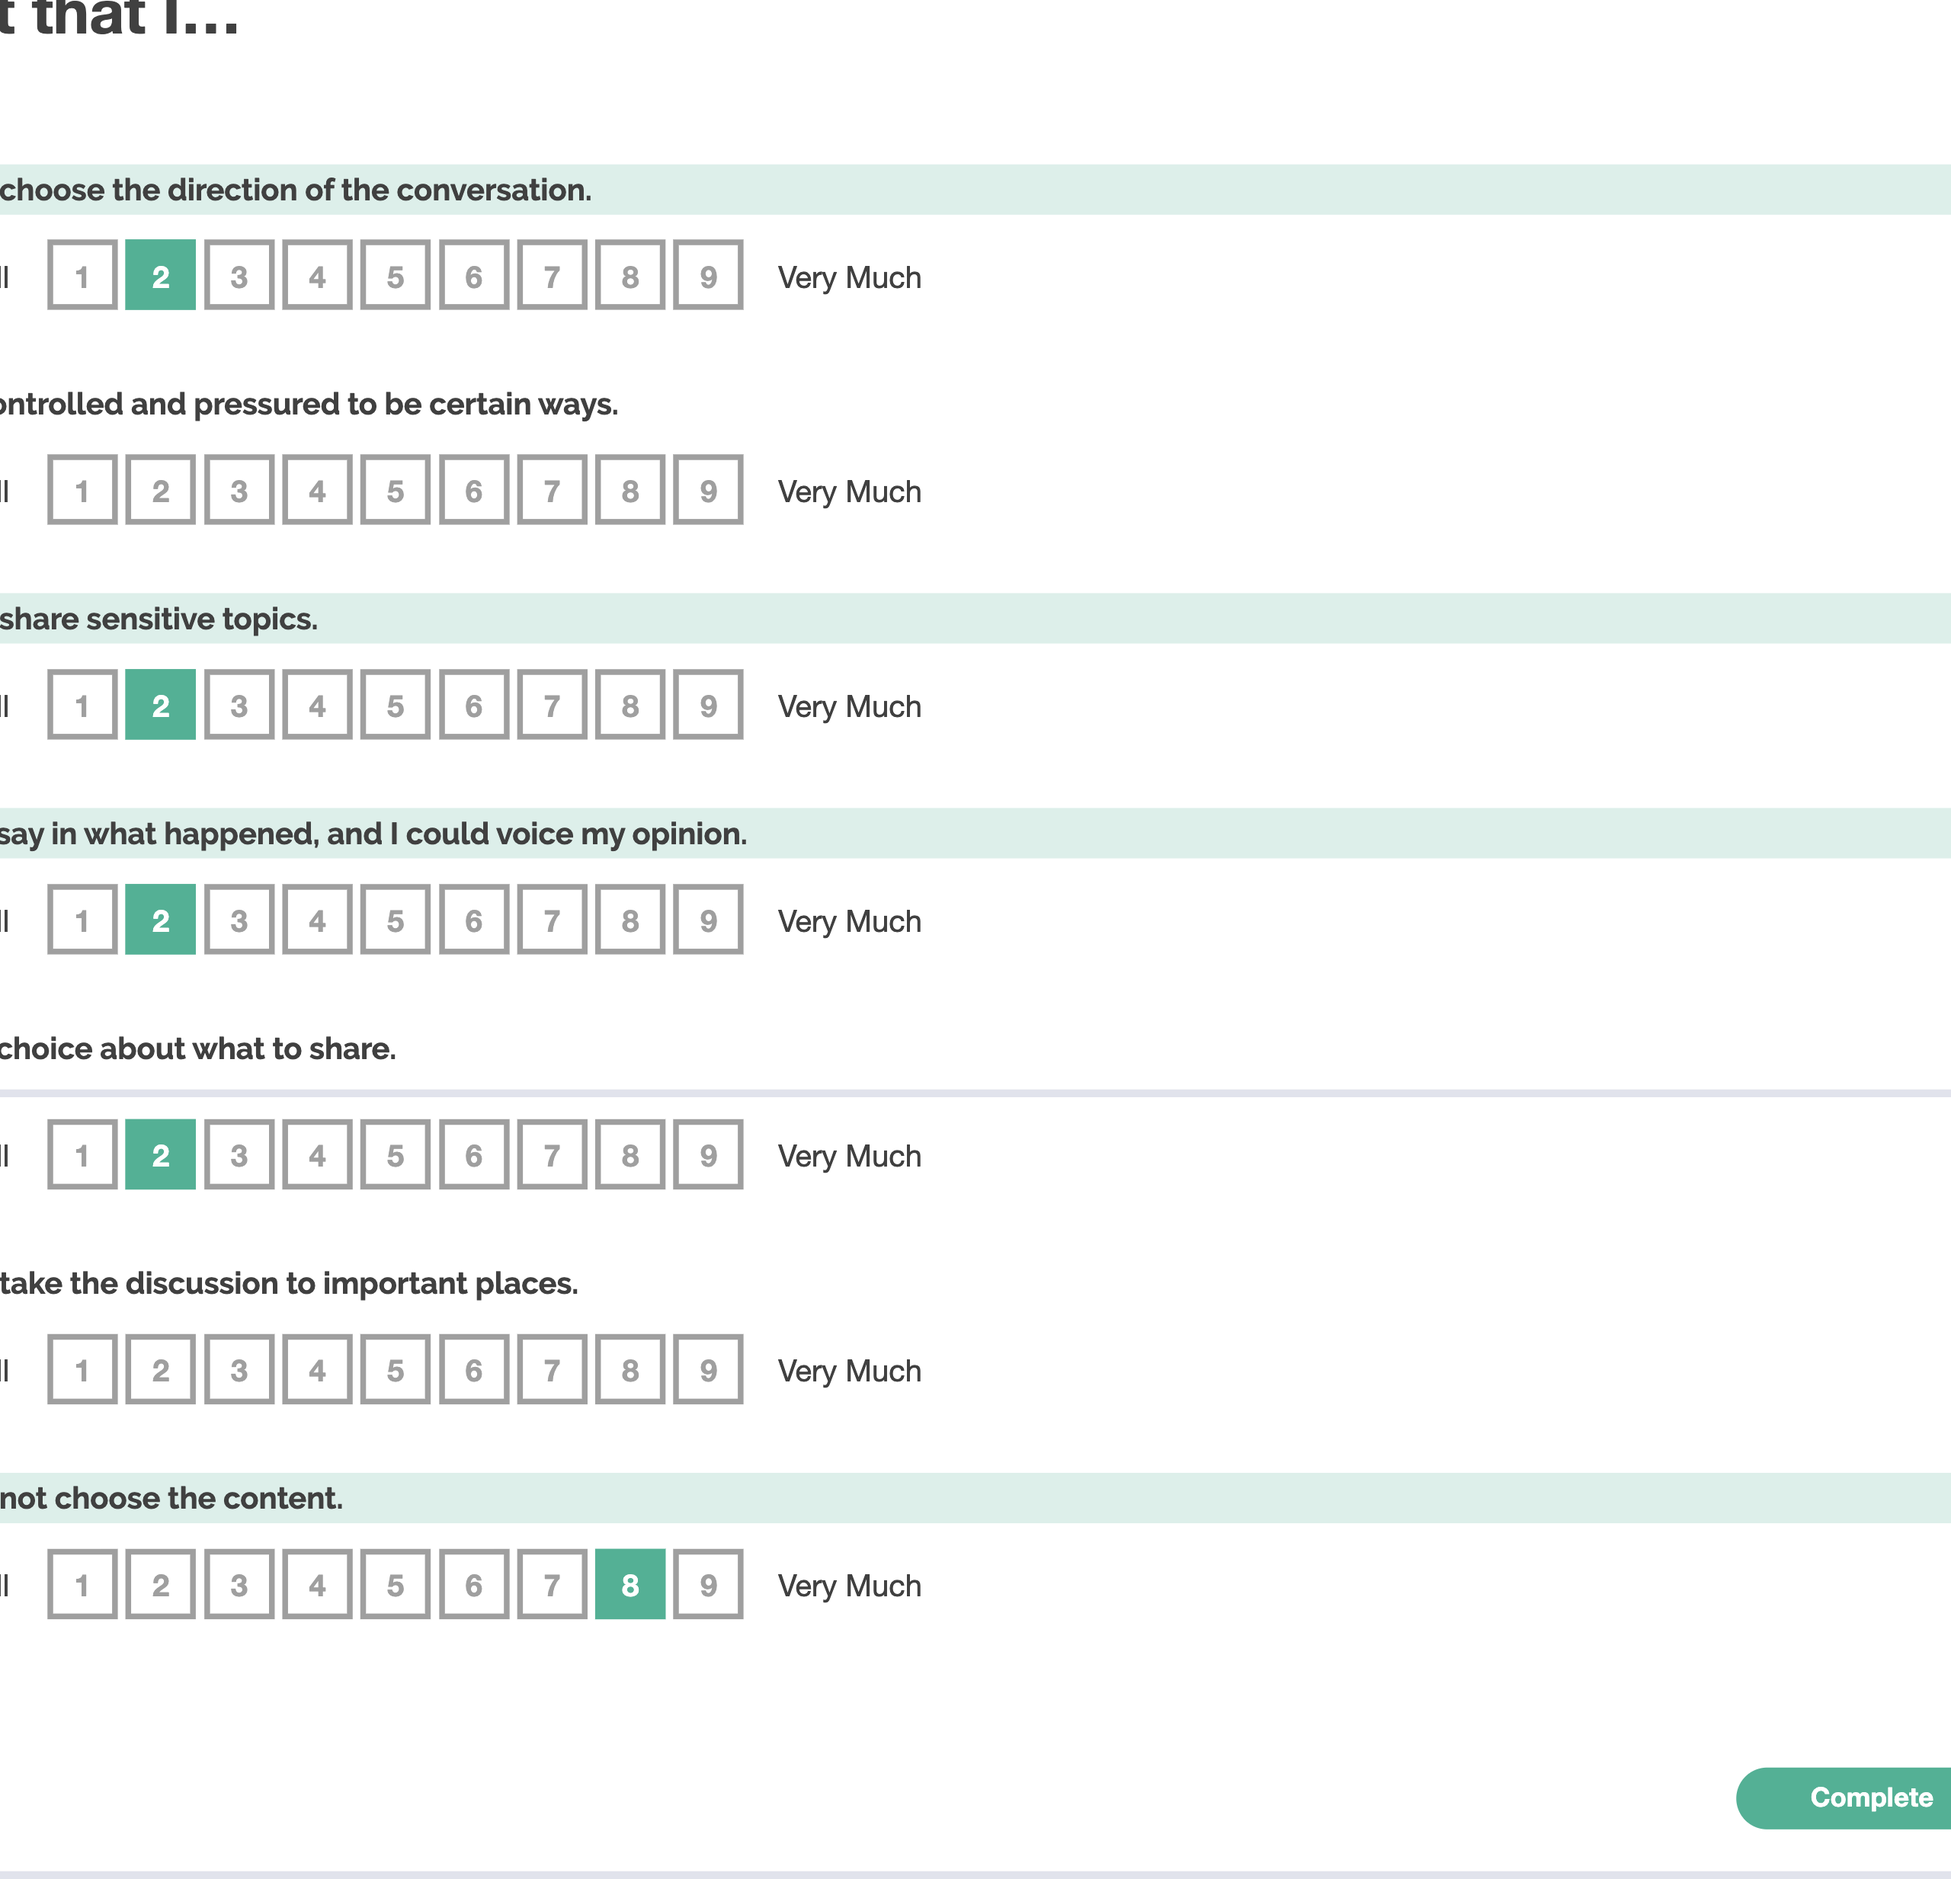
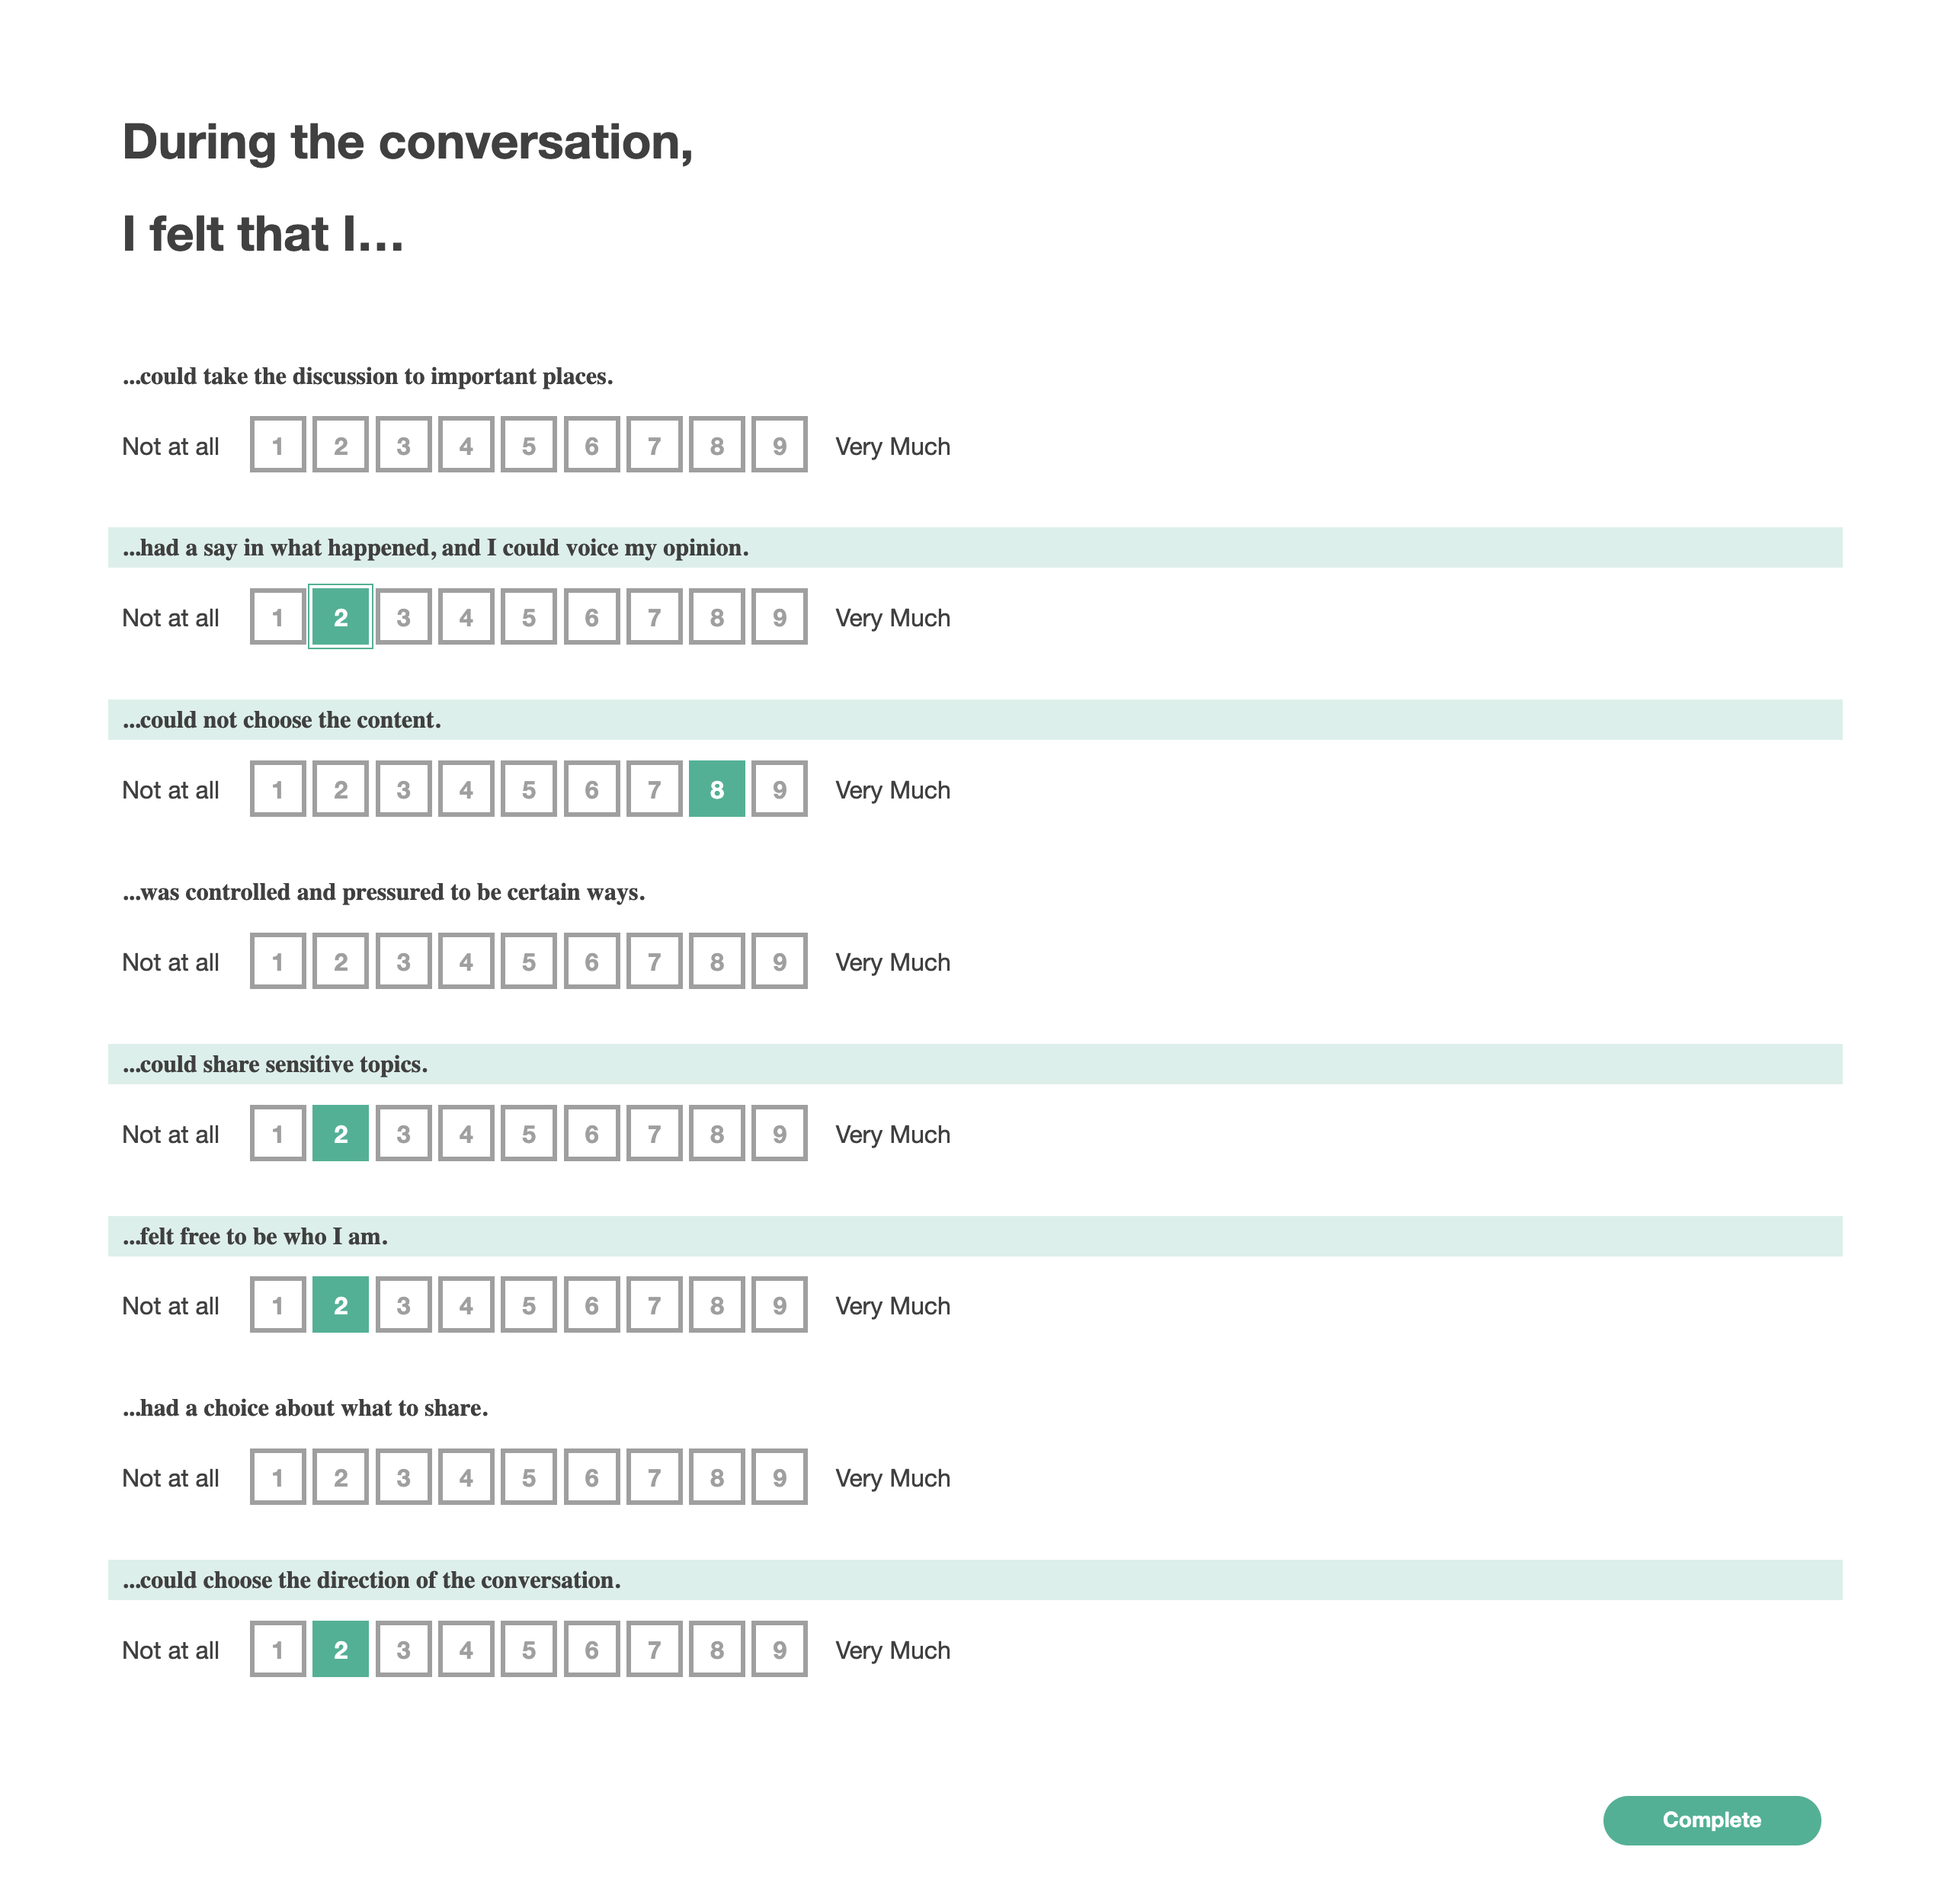
test randomization for autonomyNeedSatisfaction

Changed region(s): [[0.0, 0.0624, 1.0, 0.9055], [0.0, 0.9367, 1.0, 1.0], [0.0, 0.0, 0.0938, 0.0312]]

diff --git a/surveys/autonomyNeedSatisfaction/autonomyNeedSatisfaction.cy.jsx b/surveys/autonomyNeedSatisfaction/autonomyNeedSatisfaction.cy.jsx
@@ -6,48 +6,24 @@ const dummy = {
   set(response) {},
 };
 
-const keyWords = ["direction", "content", "choice", "important", 
-              "sensitive", "free", "voiced", "pressured"];
+const ids = ["sq_100", "sq_101", "sq_102", "sq_103", 
+  "sq_104", "sq_105", "sq_106", "sq_107", "sq_108"];
+const ids2 = ["sq_109", "sq_110", "sq_111", "sq_112", 
+  "sq_113", "sq_114", "sq_115", "sq_116", "sq_117"];
 
 describe("AutonomyNeedSatisfaction", () => {
   it("completes", () => {
     cy.spy(dummy, "set").as("callback");
     cy.mount(<AutonomyNeedSatisfaction onComplete={dummy.set} />);
 
-    //cy.get(".sv-row.sv-clearfix").click();
-/*    var index = 0;
-    var flag = false;
-    cy.get("#sp_101_content").children().each(($el) => {
-      if ($el.children().not.is(keyWords[index])) {
-        return true;
-      }
-    //  expect($el.children()).to.not.contain(keyWords[index])
-    //  cy.get($el).children().should("not.contain", keyWords[index])
-      index ++;
-    }); */
-    var same = false;
-    expect((same) => {
-      cy.get("#sp_101_content").children().each(($el) => {
-        if ($el.children().not.is(keyWords[index])) {
-          return false;
-        }
-        index ++;
+    const idList = [];
+    cy.get(".sv-question.sv-row__question").each(($el) => {
+      cy.wrap($el).invoke("attr", "id").then(curr => {
+        idList.push(curr);
       });
-      return true;
-    }).equal(true);
-
- /*   var i = 0;
-    Cypress.Commands.add("checkRandom", (panel) => {
-      cy.get(panel).children().each(($el) => {
-        if($el.children().not.contain(keyWords[i])) {
-          return true;
-        } 
-        i++;
-      })
-      return false;
     })
-
-    cy.checkRandom("#sp_101_content").should("be.equal", "false"); */
+    cy.wrap(idList).should("not.be.deep.equal", ids);
+    cy.wrap(idList).should("not.be.deep.equal", ids2);
 
     cy.get('[data-name="chooseDirection"] input[value="2"]').click({
       force: true,
